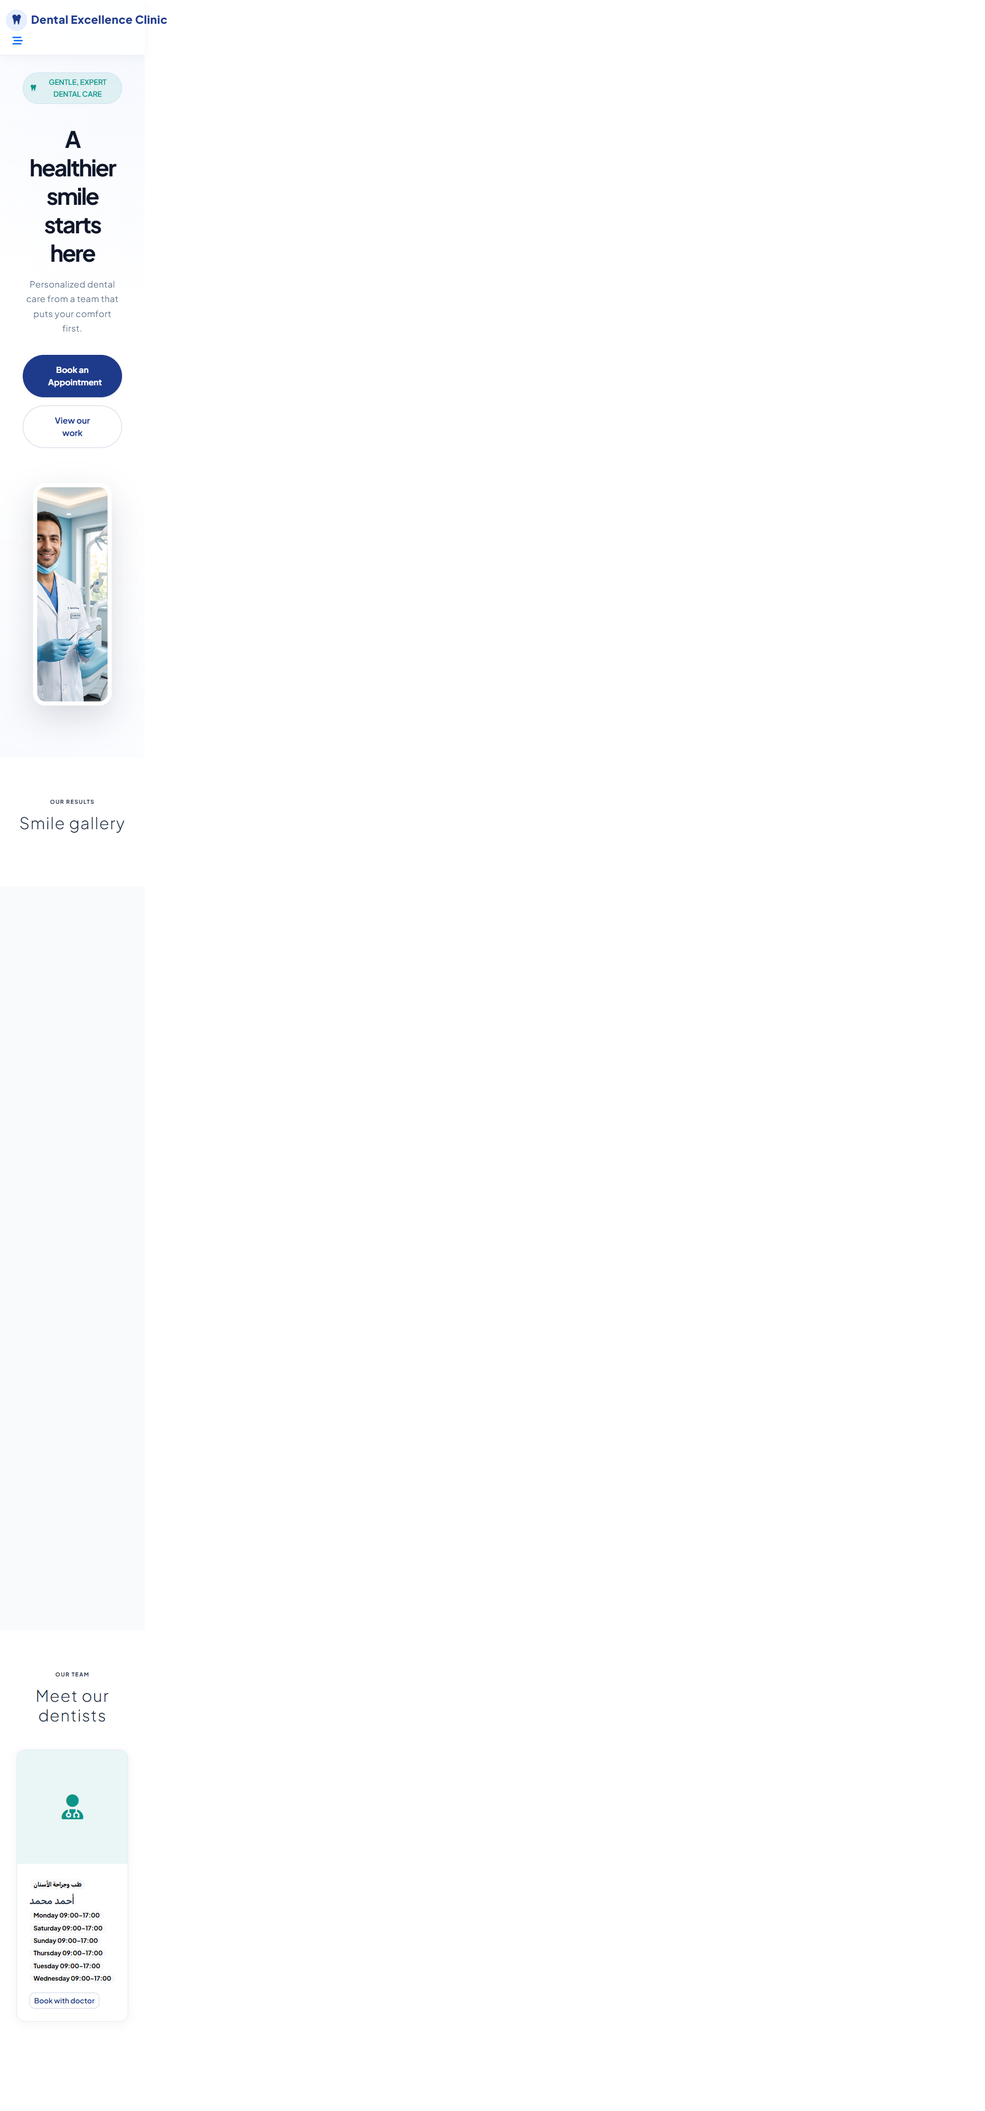
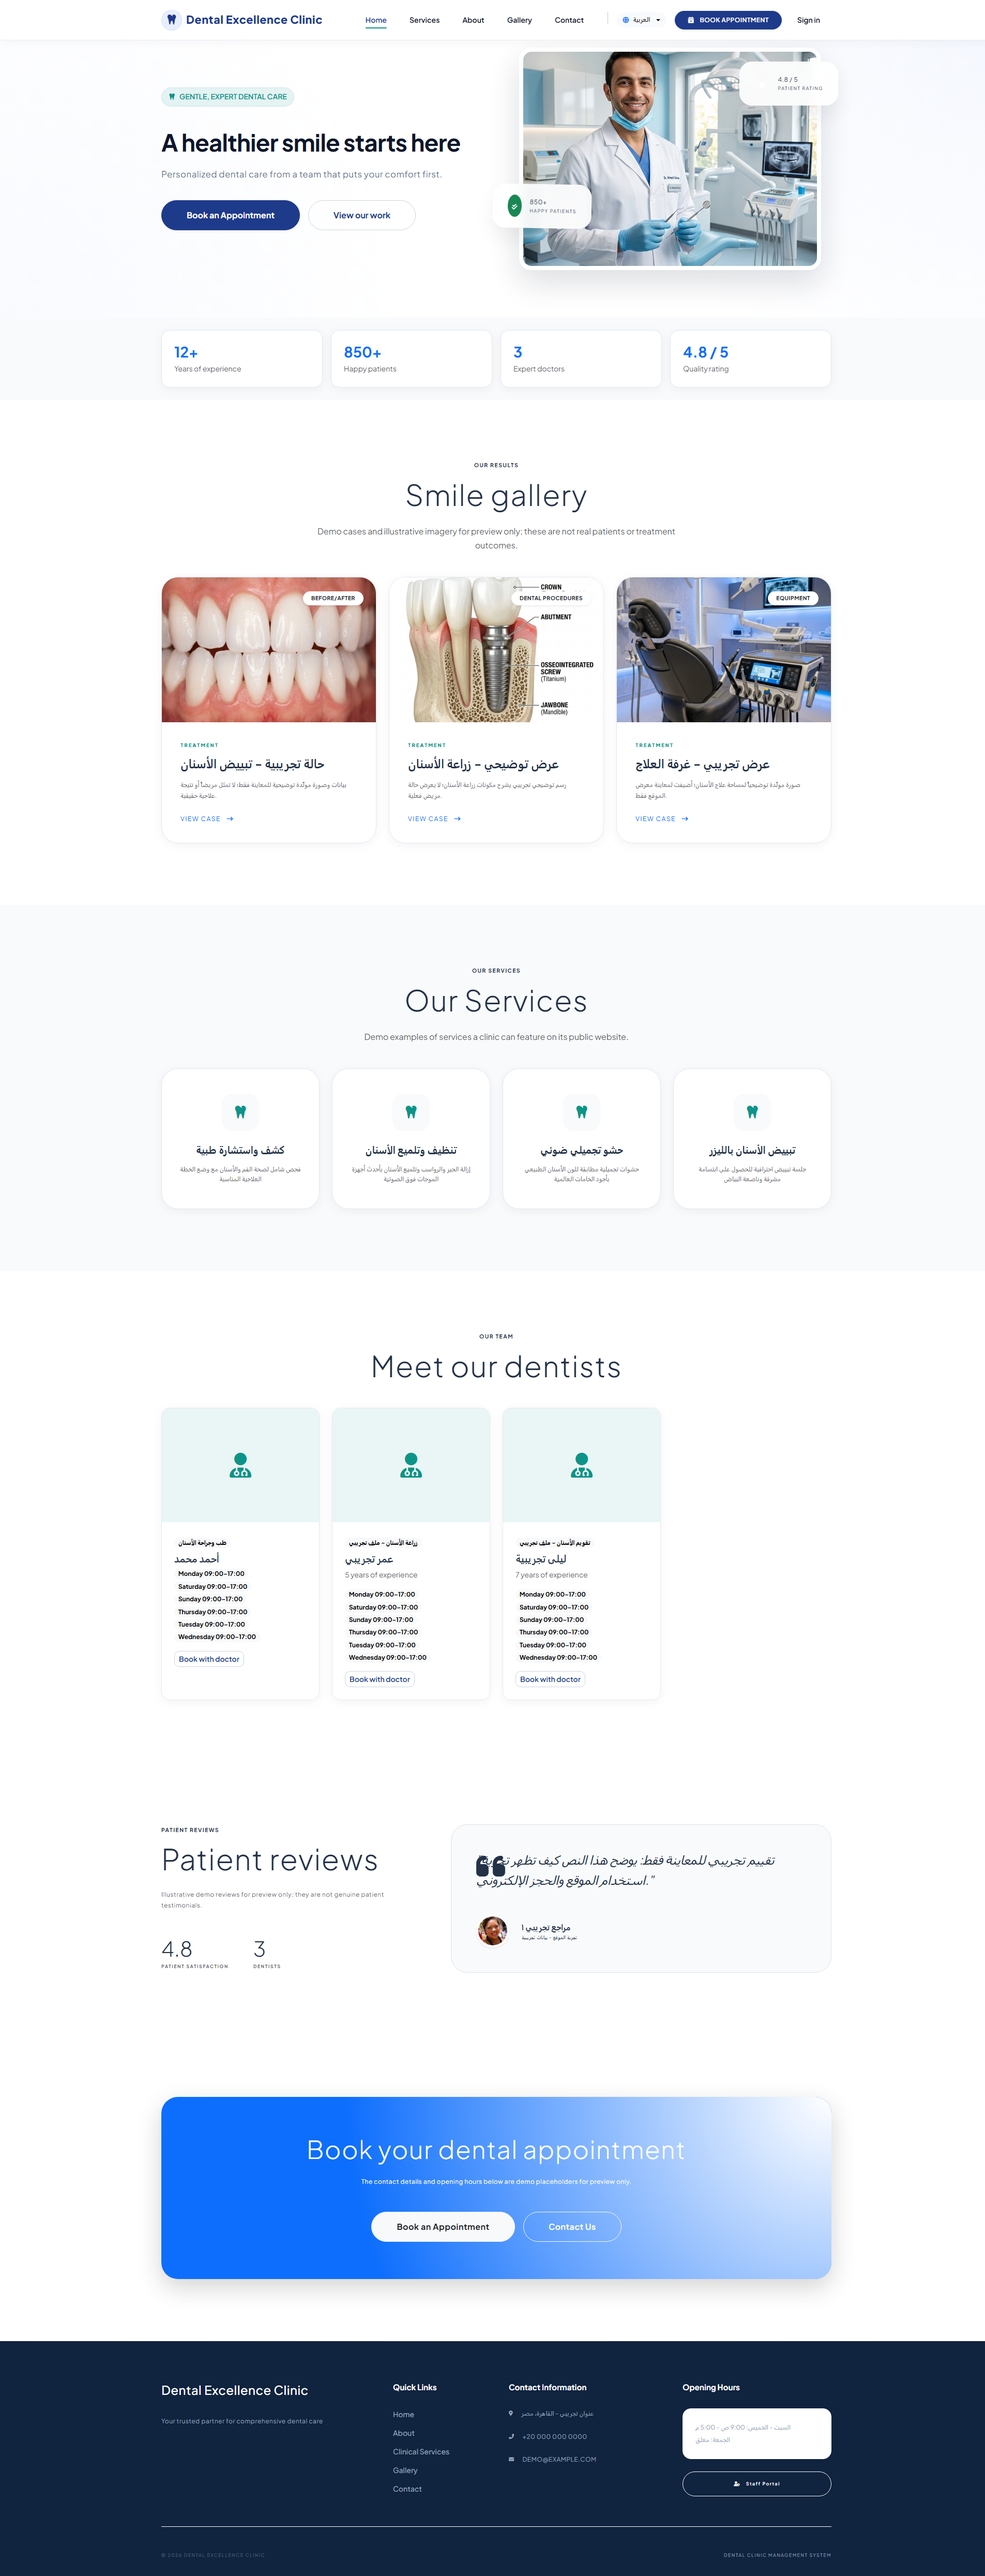
Refresh dental clinic demo screenshots

diff --git a/src/components/projects/dental-clinic-landing-page.tsx b/src/components/projects/dental-clinic-landing-page.tsx
@@ -97,15 +97,15 @@ export function DentalClinicLandingPage({
         screenshots: [
           {
             src: "/images/projects/dental-clinic/public-home.png",
-            height: 4081,
+            height: 4979,
             title: "الموقع العام للعيادة",
-            description: "واجهة ترحيبية تعرض الخدمات والأطباء وحالات النجاح ومعلومات التواصل.",
+            description: "واجهة تعرض الخدمات والأطباء ومعرضاً تجريبياً ومعلومات التواصل.",
           },
           {
             src: "/images/projects/dental-clinic/public-booking.png",
-            height: 4099,
+            height: 2335,
             title: "الحجز الإلكتروني أونلاين",
-            description: "اختيار الخدمة والطبيب والتاريخ والوقت وإرسال تفاصيل الموعد من صفحة عامة.",
+            description: "اختيار خدمة وطبيب تجريبي وإظهار المواعيد المتاحة قبل إرسال الحجز.",
           },
           {
             src: "/images/projects/dental-clinic/admin-patients.png",
